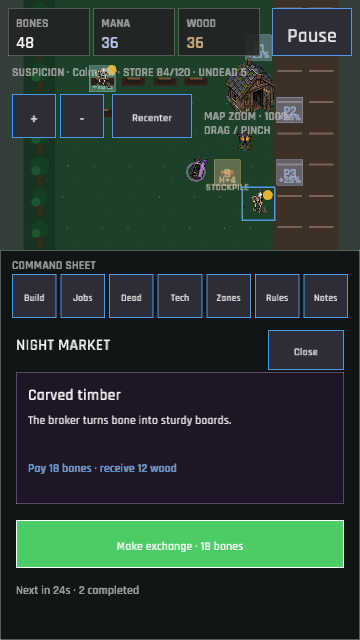
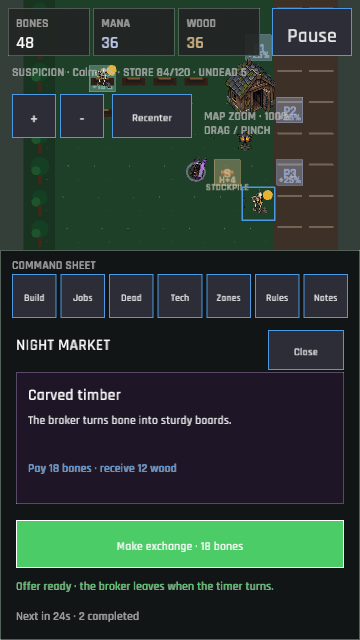
The broker names every waiting bargain (market availability feedback)
The night market now shares one validation path between the engine and both interfaces. Its exchange control and status copy identify resource, storage, mana, pause, and lantern blockers before the player spends anything.

Changed region(s): [[0.0306, 0.9062, 0.7639, 0.9688]]

diff --git a/src/ui/market.rs b/src/ui/market.rs
@@ -49,22 +49,43 @@ pub(super) fn draw_market_panel(
     }
     draw_offer(ctx, rect);
     let offer = trade::current_offer(ctx.session);
+    let trade_ready = ctx.session.phase == crate::state::GamePhase::Playing
+        && trade::trade_status(ctx.session, ctx.data).is_ok();
+    let trade_label = if trade_ready {
+        format!("Make exchange · {}", offer.cost)
+    } else {
+        "Exchange unavailable".to_owned()
+    };
     if virtual_button(
         Rect::new(rect.x + 24.0, rect.y + 284.0, 300.0, 52.0),
-        &format!("Make exchange · {}", offer.cost),
-        ctx.session.phase == crate::state::GamePhase::Playing,
+        &trade_label,
+        trade_ready,
         ButtonTone::Positive,
         pointer,
     ) {
         actions.push(UiAction::ExecuteTrade);
     }
     draw_text_block(
+        &trade_status_label(ctx, trade_ready),
+        rect.x + 24.0,
+        rect.y + 350.0,
+        rect.w - 48.0,
+        28.0,
+        13.0,
+        3.0,
+        if trade_ready {
+            dark::POSITIVE
+        } else {
+            dark::WARNING
+        },
+    );
+    draw_text_block(
         &format!(
             "{} exchanges completed · +2 suspicion per bargain",
             ctx.session.progress.market.completed_trades
         ),
         rect.x + 24.0,
-        rect.y + 360.0,
+        rect.y + 392.0,
         rect.w - 48.0,
         20.0,
         13.0,
@@ -163,6 +184,13 @@ pub(super) fn draw_compact_market_panel(
         actions.push(UiAction::TogglePanel(super::Panel::None));
     }
     let offer = trade::current_offer(ctx.session);
+    let trade_ready = ctx.session.phase == crate::state::GamePhase::Playing
+        && trade::trade_status(ctx.session, ctx.data).is_ok();
+    let trade_label = if trade_ready {
+        format!("Make exchange · {}", offer.cost)
+    } else {
+        "Exchange unavailable".to_owned()
+    };
     let card = Rect::new(sheet.x + 16.0, sheet.y + 122.0, sheet.w - 32.0, 132.0);
     draw_surface(
         card,
@@ -201,8 +229,8 @@ pub(super) fn draw_compact_market_panel(
     );
     if compact_virtual_button(
         Rect::new(sheet.x + 16.0, sheet.y + 270.0, sheet.w - 32.0, 48.0),
-        &format!("Make exchange · {}", offer.cost),
-        ctx.session.phase == crate::state::GamePhase::Playing,
+        &trade_label,
+        trade_ready,
         ButtonTone::Positive,
         12.0,
         pointer,
@@ -210,17 +238,45 @@ pub(super) fn draw_compact_market_panel(
         actions.push(UiAction::ExecuteTrade);
     }
     draw_text_block(
+        &trade_status_label(ctx, trade_ready),
+        sheet.x + 16.0,
+        sheet.y + 328.0,
+        sheet.w - 32.0,
+        22.0,
+        11.0,
+        2.0,
+        if trade_ready {
+            dark::POSITIVE
+        } else {
+            dark::WARNING
+        },
+    );
+    draw_text_block(
         &format!(
             "Next in {:.0}s · {} completed",
             ctx.session.progress.market.refresh_seconds,
             ctx.session.progress.market.completed_trades
         ),
         sheet.x + 16.0,
-        sheet.y + 332.0,
+        sheet.y + 358.0,
         sheet.w - 32.0,
         18.0,
         12.0,
         0.0,
         dark::TEXT_DIM,
     );
+}
+
+fn trade_status_label(ctx: &UiContext<'_>, ready: bool) -> String {
+    if ready {
+        "Offer ready · the broker leaves when the timer turns.".to_owned()
+    } else if ctx.session.phase != crate::state::GamePhase::Playing {
+        "Resume the cemetery before making an exchange.".to_owned()
+    } else {
+        format!(
+            "Waiting · {}",
+            trade::trade_status(ctx.session, ctx.data)
+                .expect_err("unavailable market offer should explain its blocker")
+        )
+    }
 }

diff --git a/src/engine/trade.rs b/src/engine/trade.rs
@@ -69,6 +69,25 @@ pub fn advance_market(session: &mut GameSession, dt: f32) {
 }
 
 pub fn execute_trade(session: &mut GameSession, data: &GameData) -> Result<(), String> {
+    trade_status(session, data)?;
+    let offer = current_offer(session);
+    session.economy.bones -= offer.bones_cost;
+    session.economy.wood -= offer.wood_cost;
+    match offer.kind {
+        TradeOfferKind::CarvedTimber => session.economy.wood += 12,
+        TradeOfferKind::LanternDraught => session.economy.mana += 8,
+        TradeOfferKind::QuietBargain => session.economy.ward_charges += 1,
+    }
+    session.progress.market.completed_trades += 1;
+    session.add_feed(format!(
+        "Night market exchange: {} for {}.",
+        offer.cost, offer.reward
+    ));
+    suspicion::adjust(session, 2.0, "a discreet night market exchange");
+    Ok(())
+}
+
+pub fn trade_status(session: &GameSession, data: &GameData) -> Result<(), String> {
     if !session.has_building(BuildingKind::GraveLantern) {
         return Err("Complete the grave lantern before meeting the night broker.".to_owned());
     }
@@ -91,19 +110,6 @@ pub fn execute_trade(session: &mut GameSession, data: &GameData) -> Result<(), S
         }
         TradeOfferKind::QuietBargain => {}
     }
-    session.economy.bones -= offer.bones_cost;
-    session.economy.wood -= offer.wood_cost;
-    match offer.kind {
-        TradeOfferKind::CarvedTimber => session.economy.wood += 12,
-        TradeOfferKind::LanternDraught => session.economy.mana += 8,
-        TradeOfferKind::QuietBargain => session.economy.ward_charges += 1,
-    }
-    session.progress.market.completed_trades += 1;
-    session.add_feed(format!(
-        "Night market exchange: {} for {}.",
-        offer.cost, offer.reward
-    ));
-    suspicion::adjust(session, 2.0, "a discreet night market exchange");
     Ok(())
 }
 

diff --git a/src/engine/trade/tests.rs b/src/engine/trade/tests.rs
@@ -53,6 +53,16 @@ fn carved_timber_exchange_respects_storage_and_pays_reward() {
 }
 
 #[test]
+fn market_status_names_the_blocker_without_spending_materials() {
+    let data = crate::data::GameData::load().unwrap();
+    let mut session = lantern_session(&data);
+    session.economy.bones = 10;
+    let status = trade_status(&session, &data).unwrap_err();
+    assert!(status.contains("18 bones"));
+    assert_eq!(session.economy.bones, 10);
+}
+
+#[test]
 fn market_save_defaults_and_normalizes_invalid_rotation() {
     let data = crate::data::GameData::load().unwrap();
     let mut save = lantern_session(&data).to_save(&data.config.version);
